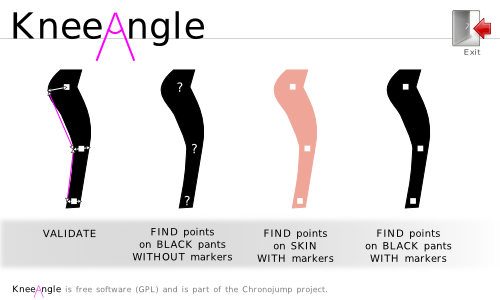
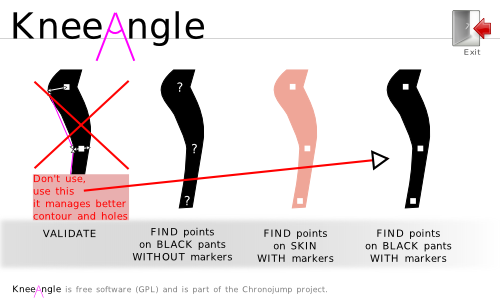
kneeAngle: use blackOnlyMarkers instead of validation. kneePointFront & back now always 0 if undetected

diff --git a/src/angle/kneeAngle.cpp b/src/angle/kneeAngle.cpp
@@ -165,7 +165,7 @@ int main(int argc,char **argv)
 	if(argc < 2)
 	{
 		char *startMessage = new char[300];
-		sprintf(startMessage, "\nkneeAngle HELP.\n\nProvide file location as a first argument...\nOptional: as 2nd argument provide a fraction of video to start at that frame, or a concrete frame.\nOptional: as 3rd argument provide mode you want to execute (avoiding main menu).\n\t%d: validation; %d: blackWithoutMarkers; %d: skinOnlyMarkers; %d: blackOnlyMarkers.\n\nEg: Start at frame 5375:\n\tkneeAngle myfile.mov 5375\nEg:start at 80 percent of video and directly as blackOnlyMarkers:\n\tkneeAngle myFile.mov .8 %d\n\nNote another param can be used to default trhesholdLargestContour on blackOnly and on validation", 
+		sprintf(startMessage, "\nkneeAngle HELP.\n\nProvide file location as a first argument...\nOptional: as 2nd argument provide a fraction of video to start at that frame, or a concrete frame.\nOptional: as 3rd argument provide mode you want to execute (avoiding main menu).\n\t%d: validation (don't use this, use blackOnlyMarkers); %d: blackWithoutMarkers; %d: skinOnlyMarkers; %d: blackOnlyMarkers.\n\nEg: Start at frame 5375:\n\tkneeAngle myfile.mov 5375\nEg:start at 80 percent of video and directly as blackOnlyMarkers:\n\tkneeAngle myFile.mov .8 %d\n\nNote another param can be used to default trhesholdLargestContour on blackOnly and on validation", 
 				validation, blackWithoutMarkers, skinOnlyMarkers, blackOnlyMarkers, blackOnlyMarkers);
 		std::cout<< startMessage <<std::endl;
 		exit(1);
@@ -2085,12 +2085,23 @@ int main(int argc,char **argv)
 			if(ProgramMode != skinOnlyMarkers)
 				rectHeightPercent = 100 * (double) rectVector[i] / rectHeightMax;
 
+			//if kneePointFront is not detected, it's 0.
+			//verticalHeight is used to convert Y of OpenCV (top) to Y of R (bottom)
+			//don't convert to 384 when it's undetected
+			//same for KneePointBack
+			int myKPFY = kneePointFrontYVector[i];
+			if(myKPFY != 0)
+				myKPFY = verticalHeight - kneePointFrontYVector[i];
+			int myKPBY = kneePointBackYVector[i];
+			if(myKPBY != 0)
+				myKPBY = verticalHeight - kneePointBackYVector[i];
+
 			fprintf(fDataRaw, "%d;%d;%d;%d;%d;%d;%d;%d;%d;%d;%f;%d;%f\n", 
 					hipXVector[i], verticalHeight - hipYVector[i],
 					kneeXVector[i], verticalHeight - kneeYVector[i],
 					toeXVector[i], verticalHeight - toeYVector[i],
-					kneePointFrontXVector[i], verticalHeight - kneePointFrontYVector[i], 
-					kneePointBackXVector[i], verticalHeight - kneePointBackYVector[i],
+					kneePointFrontXVector[i], myKPFY, 
+					kneePointBackXVector[i], myKPBY,
 					angleVector[i], rectVector[i], 
 					rectHeightPercent);
 		}
@@ -2098,6 +2109,8 @@ int main(int argc,char **argv)
 	fclose(fDataRaw);
 
 	//---------------- write smooth data file -------------------------------------
+	/* currently unused */
+	/*
 	if((fDataSmooth=fopen(fDataSmoothName,"w"))==NULL){
 		printf("Error, no se puede escribir en el fichero %s\n",fDataSmoothName);
 	} else {
@@ -2133,18 +2146,30 @@ int main(int argc,char **argv)
 			if(ProgramMode != skinOnlyMarkers)
 				rectHeightPercent = 100 * (double) rectVector[i] / rectHeightMax;
 
+			//if kneePointFront is not detected, it's 0.
+			//verticalHeight is used to convert Y of OpenCV (top) to Y of R (bottom)
+			//don't convert to 384 when it's undetected
+			//same for KneePointBack
+			int myKPFY = kneePointFrontYVector[i];
+			if(myKPFY != 0)
+				myKPFY = verticalHeight - kneePointFrontYVector[i];
+			int myKPBY = kneePointBackYVector[i];
+			if(myKPBY != 0)
+				myKPBY = verticalHeight - kneePointBackYVector[i];
+
 			fprintf(fDataSmooth, "%d;%d;%d;%d;%d;%d;%d;%d;%d;%d;%f;%f;%d;%f\n", 
 					hipXVector[i], verticalHeight - hipYVector[i],
 					kneeXVector[i], verticalHeight - kneeYVector[i],
 					toeXVector[i], verticalHeight - toeYVector[i],
-					kneePointFrontXVector[i], verticalHeight - kneePointFrontYVector[i], 
-					kneePointBackXVector[i], verticalHeight - kneePointBackYVector[i],
+					kneePointFrontXVector[i], myKPFY, 
+					kneePointBackXVector[i], myKPBY,
 					angleVector[i], //trying angle smoothed
 					angleSmoothed, rectVector[i], 
 					rectHeightPercent);
 		}
 	}
 	fclose(fDataSmooth);
+	*/
 
 	//------------------ clear memory ----------------------
 	cvClearMemStorage( stickStorage );

diff --git a/src/angle/kneeAngleFunctions.cpp b/src/angle/kneeAngleFunctions.cpp
@@ -118,7 +118,6 @@ CvPoint findHipPoint(IplImage* img,CvRect roirect)
  * Knee point is a white pixel below the hip point and having maximum x coordinate in the bounding box
  * Returns the coordinate of the knee point
  */
-//CvPoint findKneePointFront(IplImage *img, CvRect roirect, bool foundAngleOneTime)
 CvPoint findKneePointFront(IplImage *img, CvRect roirect, int rectHMax)
 {
 	CvPoint pt;
